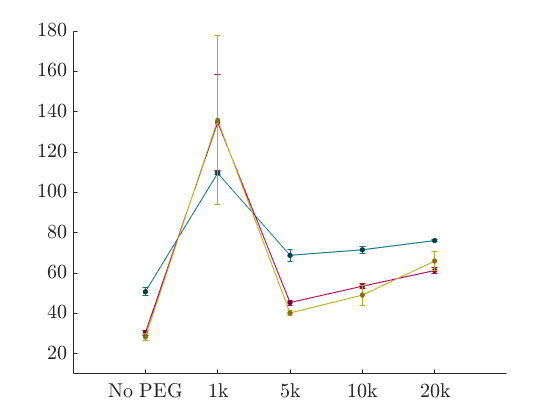
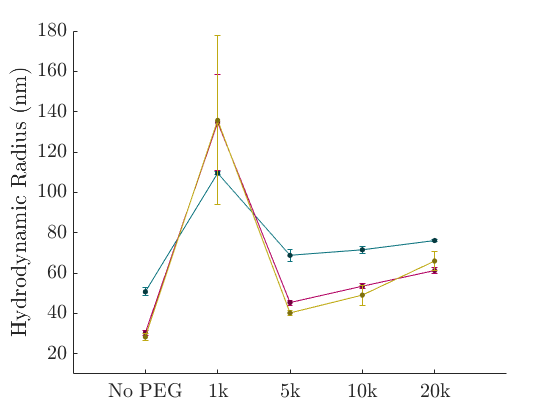
no message

Changed region(s): [[0.0, 0.1548, 0.0607, 0.8048]]

diff --git a/Verslag/content/ResultsAndDiscussion.tex b/Verslag/content/ResultsAndDiscussion.tex
@@ -3,6 +3,7 @@
 \begin{wraptable}{r}{0.4\textwidth}
   \caption{Core diameter of the particles observed in the TEM images. Exp. Size is the diameter expected from the chemical protocol used}
   \label{tab:TEM}
+  \begin{center}
   \begin{tabular}{ c | c }
     Exp. Size (nm) & Size (nm)\\
     \toprule
@@ -11,6 +12,7 @@
     $30$ & $18.29 \pm 0.23$\\
     $45$ & $46.75 \pm 0.47$
   \end{tabular}
+  \end{center}
 \end{wraptable}
 As described in section \ref{subsubsec:CoreDia} TEM images of the particles are created to determine their shape and core diameter. According to the synthesis protocol used (see section \ref{subsubsec:Turk} and appendix) we expect spherical particles.  Several images were created from the three different colloids (expected size $15$nm, $30$nm and $45$nm) in advance of the PEG functionalization, thus naked gold nanoparticles. In figure \ref{fig:TEM} one image of each colloid is shown in combination with a histogram indicating the size distribution. The data in the histogram is a combination of data from several images.\\
 The TEM images show approximately spherical nanoparticles. They cluster together due to Van der Waals interactions but do not aggregate due to the electrostatic repulsion of the citrate ions surrounding the naked particles.
@@ -19,7 +21,7 @@ For the particles with expected size of $45$nm, the observed average size is sli
 The particles requiring attention are  the ones with expected size $30$nm. They are more then $10$nm smaller compared to the size the protocol predicts. The reason for this deviation lies most certainly in the experimental handling of the protocol. (Many other experimenters have used the protocol and obtained the expected results) Since the particles are smaller, presumably a higher concentration of citrate is added to the gold solution. This can happen due to wrongful pipetting work or evaporation of the gold solution while bringing it to boiling temperature. The last one seems unlikely since during the heating a condenser was used with a continuous flow of cold water.\\
 The size distributions from the two biggest particles, figures \ref{fig:TEM}(b) and (d), indicate a wide spreading around the average.
 If more data had been collected a gaussian size distribution would have been expected since the growth of nanoparticles depends various random factors. For the particles of expected size $30$nm the size distribution approximates a normal gaussian distribution whereas the distribution for the biggest particles appear to be negatively skewed. For the smallest particles though, clearly a subpopulation of diameter around $4$nm is present. The reason for this subpopulation is not sure, to little particles were analyzed to draw immediate conclusions. A possibility is that there was an unequal distribution of the citrate in the gold solution due to unsystematic stirring.
-\newpage
+
 
 \begin{figure}[h!]
   \includegraphics[width=\textwidth]{gfx/TEM_res}
@@ -27,20 +29,16 @@ If more data had been collected a gaussian size distribution would have been exp
    \label{fig:TEM}
 \end{figure}
 
-\newpage
-
 \subsection{UV-Vis}
 \begin{figure}
   \includegraphics[width=\textwidth]{gfx/UVVIS_alle}
   \caption{Absorption spectra for naked GNP of expected size $15$nm, $30$nm and $45$nm}
   \label{fig:UV-VIS all naked}
 \end{figure}
-Figure \ref{fig:UV-VIS all naked} presents the absorption spectra of the naked gold nanoparticles, thus before the functionalization with PEG. The figure clearly indicates the mechanism of the UV-VIS measurements. Bigger particles have a lower surface plasmon frequency hence a bigger wavelength at which maximum absorption occurs.\\
-The most important application of the UV-VIS measurements is to determine the necessary proportion of PEG/GNP solution as described in section \ref{subsubsec:RelSize}.
-The reasoning to determine the ideal PEG/GNP proportion from the measurements will be explained here for the $20$k PEG. The same reasoning applies for the other PEG's. In figure \ref{fig:UV-VIS 15nm 20k} four absorption spectra (with different PEG/GNP ratio) for the smallest particles ($15$nm) functionalized with $20$k PEG are presented. Both the curves before and after the addition of NaCl (to stimulate aggregation) are shown. The results for the other particles can be found in the appendix. Each time only four (out of ten) absorption spectra are shown for the sake of clarity of the figure. \\
 \begin{wraptable}{r}{0.4\textwidth}
   \caption{Necessary PEG/GNP proportions (volume/volume) for each PEG to create a stable colloid. The proportions are valid for a $1$g/l PEG solution and a GNP solution obtained from the protocol described in the appendix. }
   \label{tab:PEG/GNP}
+  \begin{center}
   \begin{tabular}{ c | c }
     PEG & PEG/GNP \\
     \toprule
@@ -49,9 +47,14 @@ The reasoning to determine the ideal PEG/GNP proportion from the measurements wi
     $10$k & $6/10$\\
     $20$k & $8/10$
   \end{tabular}
+    \end{center}
 \end{wraptable}
+Figure \ref{fig:UV-VIS all naked} presents the absorption spectra of the naked gold nanoparticles, thus before the functionalization with PEG. The figure clearly indicates the mechanism of the UV-VIS measurements. Bigger particles have a lower surface plasmon frequency hence a bigger wavelength at which maximum absorption occurs.\\
+The most important application of the UV-VIS measurements is to determine the necessary proportion of PEG/GNP solution as described in section \ref{subsubsec:RelSize}.
+The reasoning to determine the ideal PEG/GNP proportion from the measurements will be explained here for the $20$k PEG. The same reasoning applies for the other PEG's. In figure \ref{fig:UV-VIS 15nm 20k} four absorption spectra (with different PEG/GNP ratio) for the smallest particles ($15$nm) functionalized with $20$k PEG are presented. Both the curves before and after the addition of NaCl (to stimulate aggregation) are shown. The results for the other particles can be found in the appendix. Each time only four (out of ten) absorption spectra are shown for the sake of clarity of the figure. \\
+
 When no salt is added, the four absorption maxima from the different spectra should coincide and that is also what had been measured, see figure \ref{fig:UV-VIS 15nm 20k}. Even with insufficient PEG-coating the particles will not immediately aggregate together since they are then still slightly coated with negative citrate ions causing additional electrostatic repulsion. When adding NaCl the electrostatic effects will disappear and only the particles coated with enough PEG to provide the necessary steric repulsion will hold their size. Clearly, a $1/10$ ratio is not enough since with NaCl a secondary peak rises at a higher wavelength indicating the presence of bigger particles. The peak of the $4/10$ absorption spectrum broadens upon addition salt indicating still little aggregation. Almost no difference is observed between the $8/10$ and $10/10$ ratio so the ideal proportion is $8/10$ since we look for the minimum necessary PEG/GNP proportion.
-\\The determined PEG/GNP proportions for the four different PEG's are listed in table \ref{tab:PEG/GNP}. Remarkable is the fairly low proportion necessary when working with the smallest PEG (length $1$k). When variating the PEG/GNP proportion between $1/10$ and $10/10$ it was observed that the lower the proportion, the better the reaction of the colloid to the salt. Lowering even further this trend remained, see figure \ref{fig:UV-VIS 15nm 1k}. This is strange and contradicts the theory. It is correct that less PEG (in mass) is needed when using the smaller PEG since in $1$g more PEG molecules are present (This is observed for the other PEG's). However, this doesn't explain why when using $1$k PEG there suddenly seems to be a maximum PEG proportion at which the colloid becomes unstable again. Since this is only observed with the smallest PEG it has to have something to do with the length of the PEG chain. In a shorter PEG chain the negative charge of the thiol group becomes more significant. When there's an over-saturation of PEG in the colloid, the negative charges of the thiol groups at the surface of the particles will start to repel each other. This process causes a weaker bound between the PEG and the nanoparticles facilitating aggregation upon NaCl addition. This explanation has not been tested nor experimentally verified due to time limits. It is worth investigating this strange interaction of GNP and $1$k PEG when a stable GNP colloid with smallest particles possible is desired. 
+\\The determined PEG/GNP proportions for the four different PEG's are listed in table \ref{tab:PEG/GNP}. Remarkable is the fairly low proportion necessary when working with the smallest PEG (length $1$k). When variating the PEG/GNP proportion between $1/10$ and $10/10$ it was observed that the lower the proportion, the better the reaction of the colloid to the salt. Lowering even further this trend remained, see figure \ref{fig:UV-VIS 15nm 1k}. This is strange and contradicts the theory. It is correct that less PEG (in mass) is needed when using the smaller PEG since in $1$g more PEG molecules are present (This is observed for the other PEG's). However, this doesn't explain why when using $1$k PEG there suddenly seems to be a maximum PEG proportion at which the colloid becomes unstable again. Since this is only observed with the smallest PEG it has to have something to do with the length of the PEG chain. In a shorter PEG chain the negative charge of the thiol group becomes more significant. When there's an over-saturation of PEG in the colloid, the negative charges of the thiol groups at the surface of the particles will start to repel each other. This process causes a weaker bound between the PEG and the nanoparticles facilitating aggregation upon NaCl addition. This explanation has not been tested nor experimentally verified due to time limits. It is worth investigating this strange interaction of GNP and $1$k PEG when a stable GNP colloid with smallest particles possible is desired.
 After the necessary PEG/GNP proportion was determined based on the absorption spectra with the smallest particles, control measurements were done with the absorption spectra from the bigger particles. An example with $20$k PEG is shown in figure \ref{fig:UV-VIS all 20k}. This figure indeed indicates that all three colloids don't aggregate after being mixed with NaCl.
 
 \begin{figure}[h!]
@@ -68,6 +71,52 @@ After the necessary PEG/GNP proportion was determined based on the absorption sp
   \label{fig:UV-VIS all 20k}
 
 \end{figure}
+
+\subsection{Hydrodynamic Radius (DLS)}
+Figure \ref{fig:DLS} shows the results for the hydrodynamic radius for all particles and all kinds of PEG's. On this figure for each combination (kind of PEG and size of GNP) only one result is shown. Mostly though the DLS analysis resulted in finding two populations of particles, a polydisperse solution. In table \ref{tab:DLS} the exact numerical results and errors are listed, including the ones for the second (smaller) population.
+In a figure such as figure \ref{fig:DLS} you would expect to see an augmenting trend moving from No PEG to 20k PEG in hydrodynamic radius. Also, the bigger particles should always be bigger than the smaller particles.\\
+The first property is violated when using the $1$k PEG. A higher hydrodynamic radius when functionalizing with $1$k PEG than when functionalizing with a bigger PEG $5$k, $10$k and $20$k is strange and seems to be a wrong measurement. The measurements were repeated several time and extra attention has been paid during. Sometimes it was observed that the power of the incident laser fluctuated abnormally reaching frequently the maximum count rate. Other times the opposite happened. Even with the highest laser power not enough counts were recorded (the ideal instantaneous count rate is between 2500-3000). These problems affect the correctness of the calculations and could announce for the strange values for $R_h$ and huge error bars on the measurements. \\
+The second property is violated when using the $20$k PEG. Here the $15$nm particles suddenly have a bigger hydrodynamic radius than the $30$nm particles. These measurement were also repeated several times an the observed problem was a lack of counts. In trying to solve the problem the sample was centrifuged but this didn't improve anything. Since the results were consistently wrong, new samples from $15$nm particles with variating PEG/GNP proportion (from $5/10$-$9/10$) were analyzed in the hope to find an answer. These samples got also centrifuged since the previous measurements had big errors.  The results are shown in table \ref{tab:15nm 20k var}. Centrifuging the samples to obtain a higher count rate reduces slightly the errors and the average values are more in the line of what is expected. Considering the good results for the not centrifuged and centrifuged samples and relatively small errors, the $5/10$ PEG/GNP proportion seems to be a better choice for the smallest particles when functionalizing with 20k PEG. A control UV-VIS measurement was performed to check whether the colloid with this PEG/GNP proportion is stable and turned out positively. \\
+An answer for this strange behavior could be the steric hindrance of the long PEG chains on each other. When packed tightly on the surface the PEG chains will be elongated while with lower proportions the chains can be more compact. This is called the mushroom or brush effect. %#TODO figure
+But still, this cannot be the whole story. When synthesizing the particles, all solutions started with an equal amount of gold ions. Hence, in the colloid with the smallest particles a lot more surface needs to be covered with PEG than for the bigger particles (in total). From this all we can state that the concentration of PEG necessary to stabilize the colloid is a complex system and depends on many factors. The details of all interactions taking place in the coating mechanism is an interesting topic to investigate but beyond the scope of this project.\\
+%#something about the subpopulation
+For this project we conclude first that the functionalization with $1$k PEG behaves strange thus further results with these GNP's have to be interpreted carefully and secondly that the colloid with the smallest GNP ($15$nm) functionalized with the biggest PEG $20$k should have a PEG/GNP proportion of $5/10$ and $8/10$ as was determined with the UV-VIS measurements (see table \ref{tab:PEG/GNP}).
+\begin{figure}
+  \centering
+  \includegraphics[width=0.8\textwidth]{gfx/DlsALl.png}
+  \caption{DLS measurement results of the hydrodynamic radius for three different particles, of expected size $15$nm, $30$nm and $45$nm, before (transparent) and after PEG functionalisation.}
+  \label{fig:DLS}
+\end{figure}
+\begin{table}[h!]
+  \centering
+  \caption{DLS measurement results of the hydrodynamic radius in nm for three different particles, of expected size $15$nm, $30$nm and $45$nm, with and without functionalisation using PEG. The length of the PEG chain varies from 20k to 1k. The used PEG/GNP proportions for each PEG are listed in table \ref{tab:PEG/GNP}.}
+  \label{tab:DLS}
+\begin{tabular}{c || c | c | c | c | c }
+  Size (nm) & No PEG  & $1$k PEG & $5$k PEG & $10$k PEG & $20$k PEG\\
+  \hline
+  \hline
+  $15$ &$28.37 \pm 1.53$  & $135.72 \pm 38.01$ & $40.26\pm 1.25$ & $54.03 \pm 0.56$ & $66.00 \pm 4.71$\\
+  & $9.70\pm 1.44$& & &$14.05 \pm 4.13$ \\
+  $30$ & $30.03 \pm 1.25$ & $99.61 \pm 17.33$ & $45.41 \pm 1.26$ & $53.28 \pm 1.66$ & $61.29 \pm 1.50$\\
+  & $4.99 \pm 1.55$ & $25.37 \pm 1.84$ & $7.85 \pm 1.05$ & $5.90 \pm 0.97$ & $7.36 \pm 1.73$\\
+  $45$ & $50.75 \pm 2.05$ & $109.54 \pm 0.69$ & $70.04 \pm 3.06$ & $71.56 \pm 1.87$ & $76.14 \pm 0.66$ \\
+  & $3.28 \pm 0.79$ & & $10.67 \pm 1.44$ & $10.74 \pm 1.13$ & $5.15 \pm 0.74$ \\
+
+\end{tabular}
+\end{table}
+\begin{table}
+  \centering
+  \caption{DLS measurement results of the hydrodynamic radius in nm for the smallest particles (Exp. size $15$nm) an biggest PEG $20$k for variating PEG/GNP proportion. }
+  \label{tab:15nm 20k var}
+  \begin{tabular}{c||c |c}
+    PEG/GNP & Not centrifuged &e centrifuged \\
+    $5/10$ & $51.93 \pm 1.38$ & $69.70 \pm 3.02$\\
+    $6/10$ & $80.89 \pm 5.18$ & $65.16 \pm 5.80$\\
+    $7/10$ & $65.24 \pm 7.16$ & $57.73 \pm 2.73$\\
+    $8/10$ & $83.91 \pm 6.14$ & $72.36 \pm 7.38$\\
+    $9/10$ & $129.31 \pm 13.74$ & $56.54 \pm 1.38$\\
+  \end{tabular}
+\end{table}
 
 \subsection{Zeta potential}
 \begin{table}[h!]
@@ -97,27 +146,4 @@ After the necessary PEG/GNP proportion was determined based on the absorption sp
     \label{fig:Zeta_45_fit}
   \end{subfigure}
   \caption{$\zeta$-potential measurement results for particles of 45nm without funtionalisation (a) data and (b) Lorentzian fit. Ten measurements were done and the average was calculated (black curve).}
-\end{figure}
-
-\subsection{Hydrodynamic Radius (DLS)}
-\begin{table}[h!]
-  \centering
-  \caption{DLS measurement results in nm for three different particles, of expected size $15$nm, $30$nm and $45$nm, with and without functionalisation using PEG. The length of the PEG chain varies from 20k to 1k .}
-\begin{tabular}{c || c | c | c | c | c }
-  Size (nm) & No PEG  & $1$k PEG & $5$k PEG & $10$k PEG & $20$k PEG\\
-  \hline
-  \hline
-  $15$ &$28.37 \pm 1.53$  & $135.72 \pm 38.01$ & $40.26\pm 1.25$ & $54.03 \pm 0.56$ & $66.00 \pm 4.71$\\
-  & $9.70\pm 1.44$& & &$14.05 \pm 4.13$ \\
-  $30$ & $30.03 \pm 1.25$ & $99.61 \pm 17.33$ & $45.41 \pm 1.26$ & $53.28 \pm 1.66$ & $61.29 \pm 1.50$\\
-  & $4.99 \pm 1.55$ & $25.37 \pm 1.84$ & $7.85 \pm 1.05$ & $5.90 \pm 0.97$ & $7.36 \pm 1.73$\\
-  $45$ & $50.75 \pm 2.05$ & $109.54 \pm 0.69$ & $70.04 \pm 3.06$ & $71.56 \pm 1.87$ & $76.14 \pm 0.66$ \\
-  & $3.28 \pm 0.79$ & & $10.67 \pm 1.44$ & $10.74 \pm 1.13$ & $5.15 \pm 0.74$ \\
-
-\end{tabular}
-\end{table}
-\begin{figure}[h!]
-  \centering
-  \includegraphics[width=0.8\textwidth]{gfx/DlsALl.png}
-  \caption{DLS measurement results for three different particles, of expected size $15$nm, $30$nm and $45$nm, before (transparent) and after PEG functionalisation.}
 \end{figure}

diff --git a/Verslag/content/MaterialAndMethods.tex b/Verslag/content/MaterialAndMethods.tex
@@ -116,7 +116,8 @@ where $\beta$ is an instrumental factor and $q$ the wavevector of the scattered 
 with $n$ the refractive index of the medium, $\lambda_0$ the wavelength of the incident radiation and $\theta$ the scattering angle.
 Equation \ref{eq:autocorR} clearly shows that if the particles are smaller the autocorrelation function will be steeper (see figure \ref{fig:DLScor}). This is in agreement with the more rapid variation of the scattered intensity for smaller particles.
 For a polydisperse sample the same equation holds only now $g_1(q,\tau)$ is the sum of all exponential decays measured in the autocorrelation function.
-The specific analysis is executed by the \emph{Vasoc- particle size analyzer} Nano-Q software using the Pade-Laplace method \cite{DLSManual}.
+The specific analysis is executed by the \emph{Vasoc- particle size analyzer} Nano-Q software using the Pade-Laplace method \cite{DLSManual}.%#TODO
+Each time one ml of GNP colloid is analysed 5 times. Based on the quality of the fitting of the autocorrelation function measurements are accepted or rejected. 
 
 
 \subsubsection{Stability of the colloid}

diff --git a/Verslag/Thesis_overview.tex b/Verslag/Thesis_overview.tex
@@ -1,3 +1,19 @@
+Questions:
+1) UV-VIS 1k?!! what happened?
+2) Namen metings apparaten:
+  *uv-vis:
+  *DLS:
+  *zeta:
+3)hoe beschrijving exact GOUD-DNA verhouding
+  welk DNA:
+  welk instrument:
+  welke gel:
+  --> hoe gemaakt?
+  welke uitleesmethode:
+3) r 20 res en dis
+TODO:
+3) DLS book bib
+
 inhoudstafel? ja, maar klein
 welke prof?
 content verslag--> verschil mat en met en res

diff --git a/Measurement_Results/DLS.m b/Measurement_Results/DLS.m
@@ -20,3 +20,4 @@ plot(x,S,'.','Color',hex2rgb('#7F710D'),'Markersize',15)
 hold off
 set(gca, 'XTick',1:5, 'XTickLabel',{'No PEG' '1k' '5k' '10k' '20k'})
 axis([0 6 10 180])
+ylabel('Hydrodynamic Radius (nm)')
